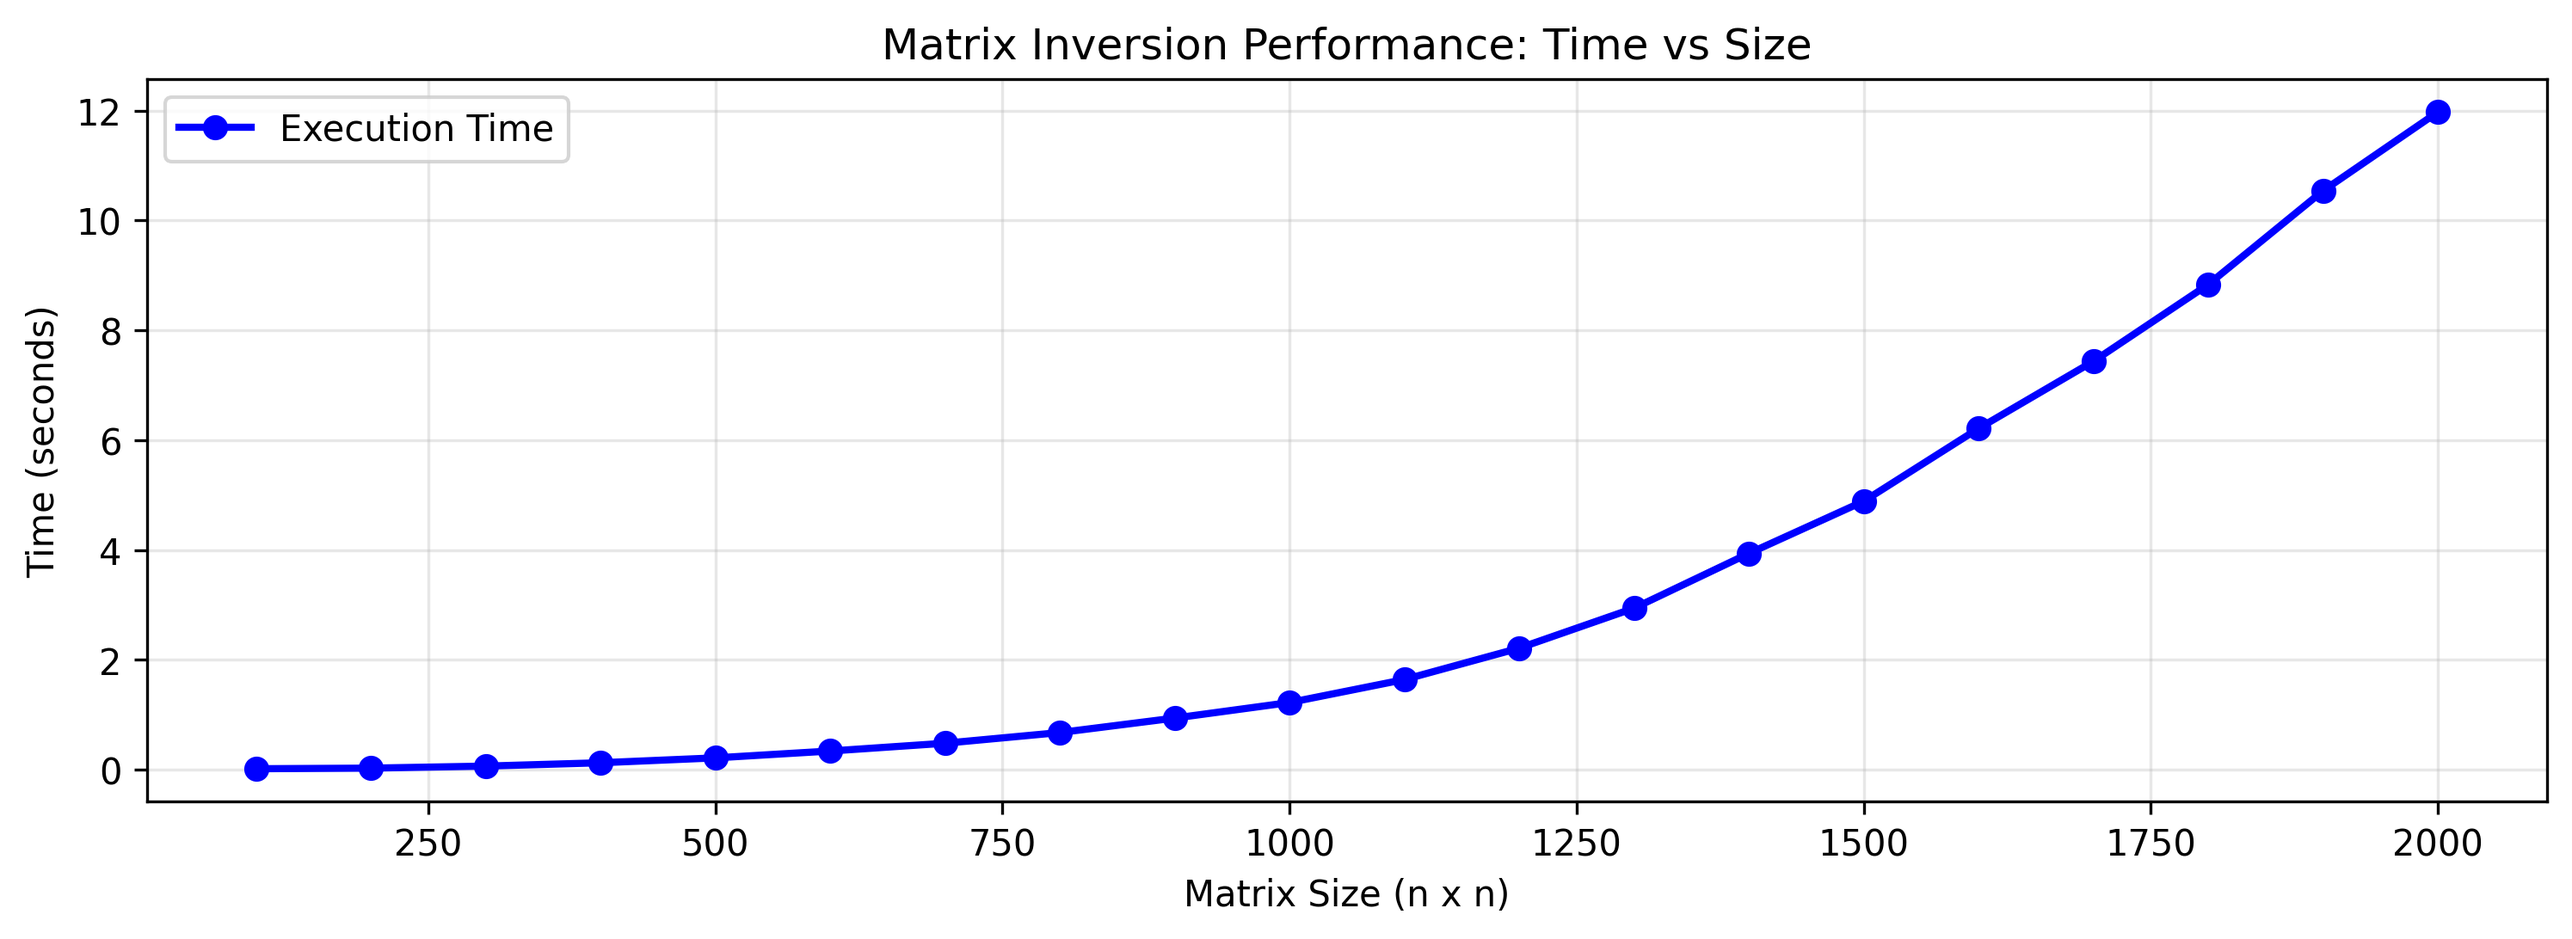
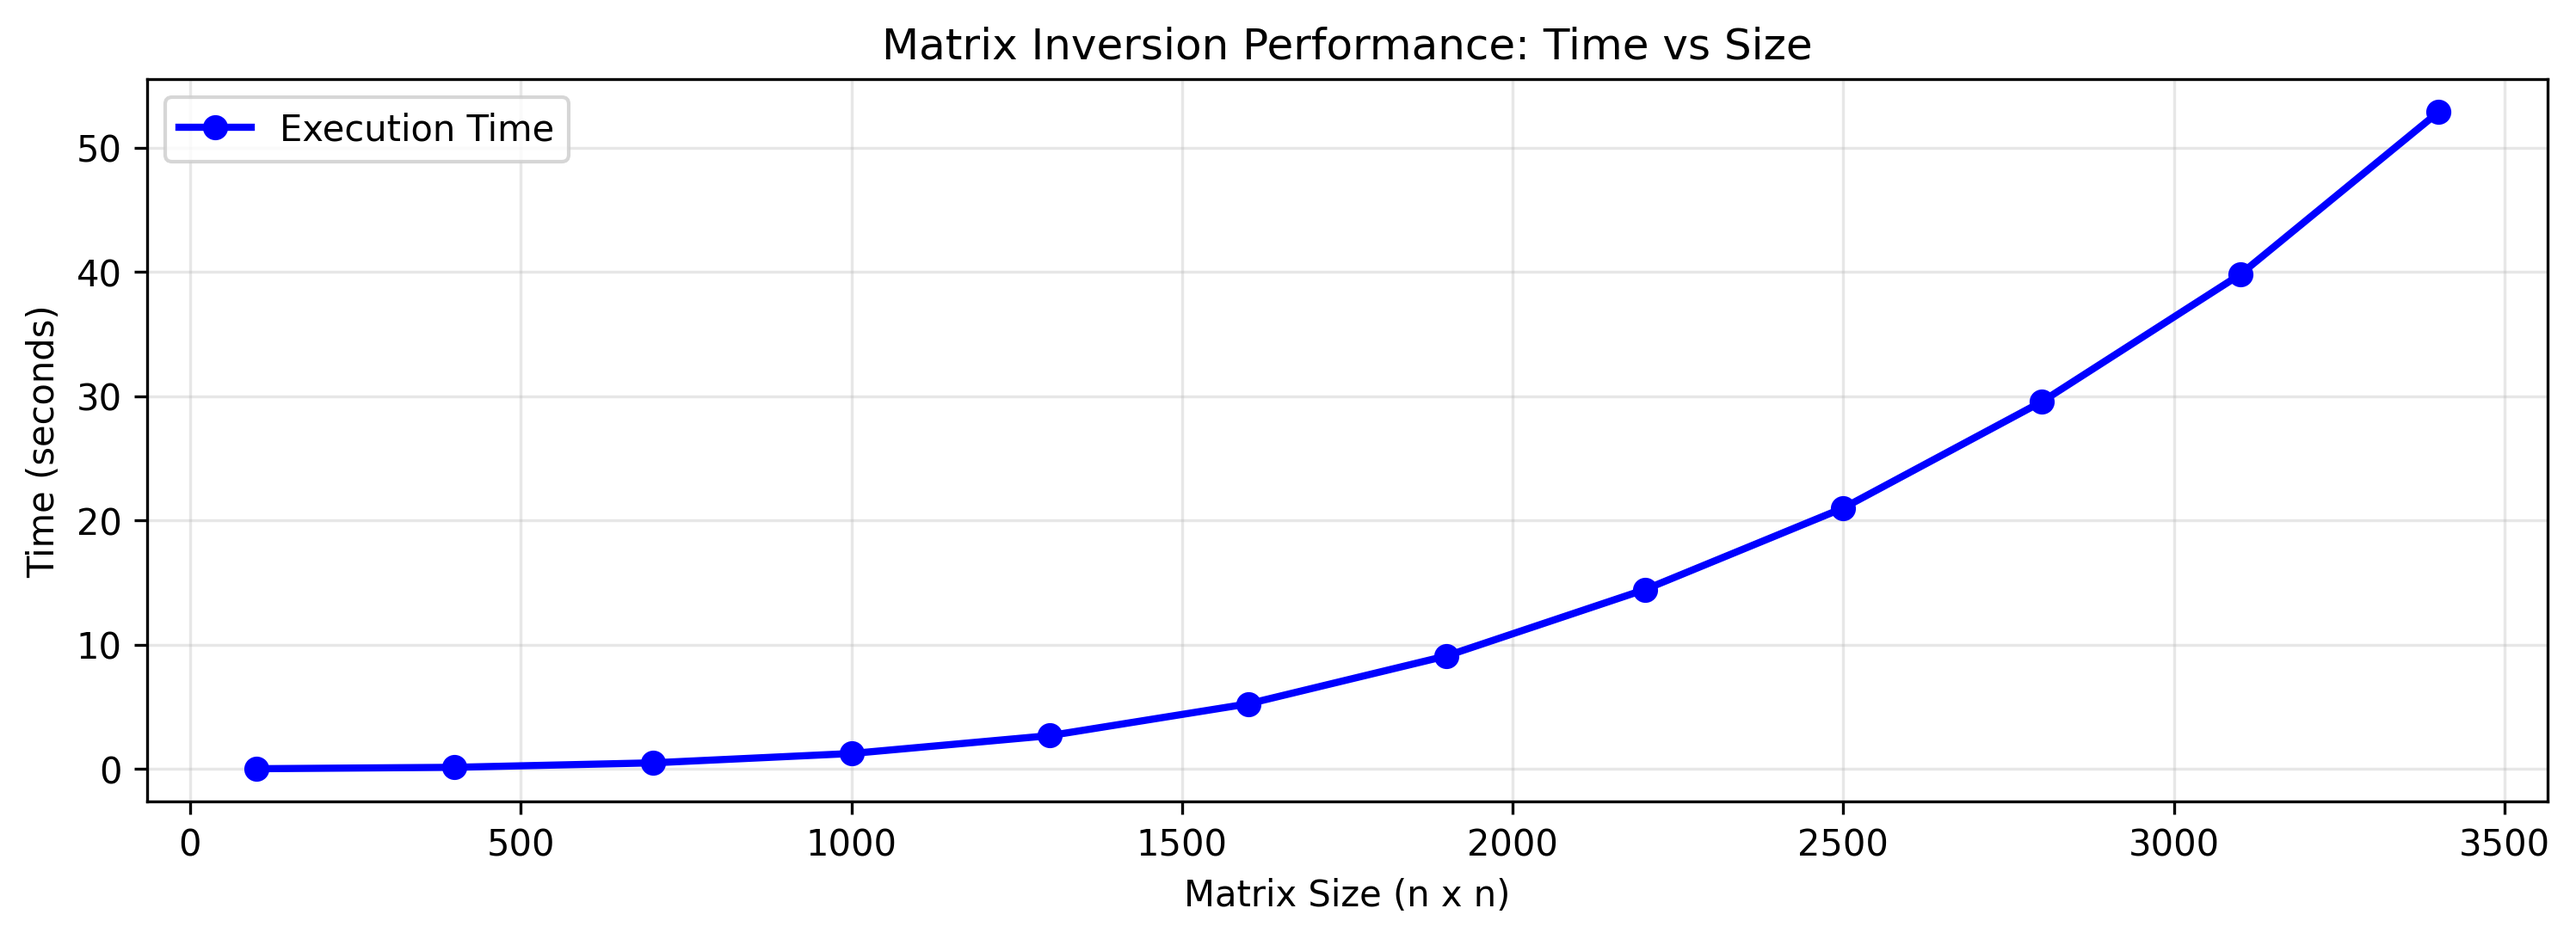
adding norm benches

diff --git a/gauss_ldlt/collect_stats.py b/gauss_ldlt/collect_stats.py
@@ -5,12 +5,13 @@ import matplotlib.pyplot as plt
 
 
 def run_benches() -> list[Tuple[int, float]]:
-    sizes: list[int] = [100 + i * 100 for i in range(20)]
+    sizes: list[int] = [100 + i * 300 for i in range(12)]
     result: list[Tuple[int, float]] = []
     for size in sizes:
         write_matrix(create_matrix(size))
         time = run_process()
         result.append((size, time))
+        print(f"{size} rows done in {time}")
 
     return result
 
